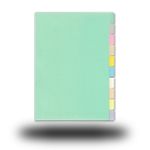
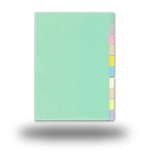
Highlights

Changed region(s): [[0.1333, 0.8, 0.8533, 0.96]]

diff --git a/css/style.css b/css/style.css
@@ -483,7 +483,7 @@ by Eugene*/
 	width: 20px;
 	height: 169px;
 	margin-left: 23px;
-	margin-top: -136px;
+	margin-top: -135px;
 	cursor: pointer;
 }
 
@@ -493,7 +493,7 @@ by Eugene*/
 	width: 20px;
 	height: 230px;
 	margin-left: 28px;
-	margin-top: -136px;
+	margin-top: -135px;
 	cursor: pointer;
 }
 
@@ -503,7 +503,7 @@ by Eugene*/
 	width: 20px;
 	height: 362px;
 	margin-left: 33px;
-	margin-top: -136px;
+	margin-top: -135px;
 	cursor: pointer;
 }
 
@@ -513,7 +513,7 @@ by Eugene*/
 	width: 20px;
 	height: 457px;
 	margin-left: 38px;
-	margin-top: -136px;
+	margin-top: -135px;
 	cursor: pointer;
 }
 
@@ -523,7 +523,7 @@ by Eugene*/
 	width: 20px;
 	height: 517px;
 	margin-left: 42px;
-	margin-top: -136px;
+	margin-top: -135px;
 	cursor: pointer;
 }
 
